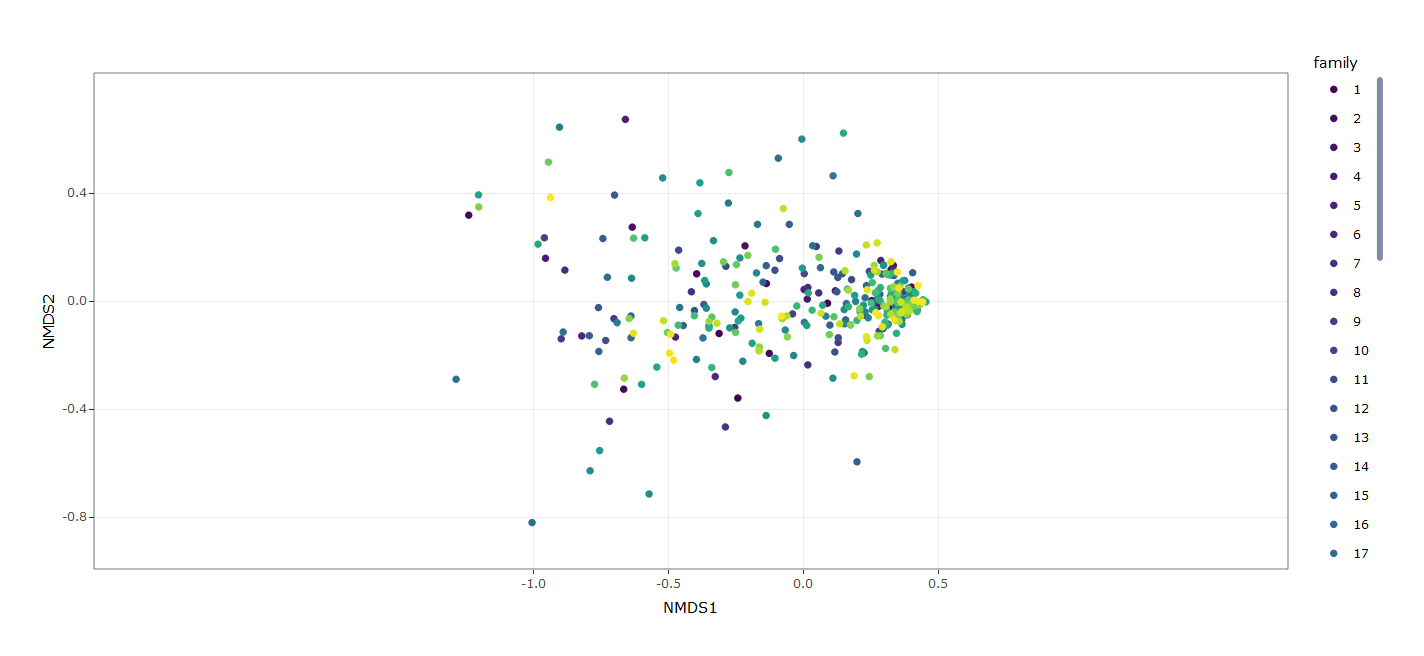
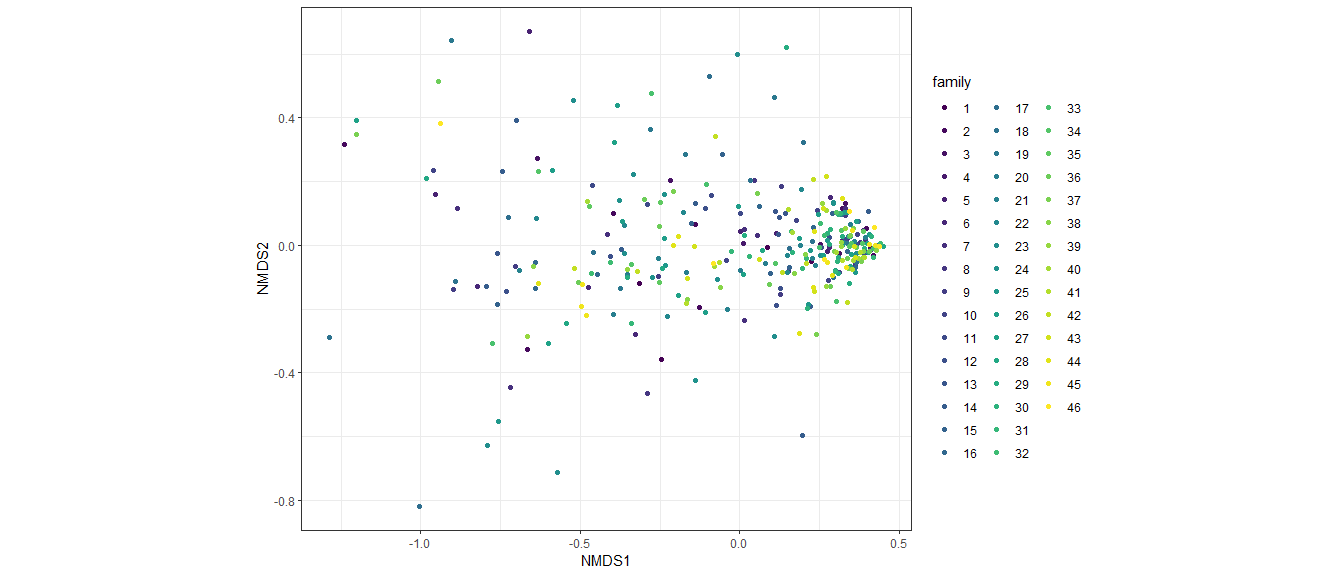
includes correlations

diff --git a/Rmds/VOC_clustering.md b/Rmds/VOC_clustering.md
@@ -5,6 +5,7 @@ Volatile organic compounds clustering/ordination
   - [Data transformation](#data-transformation)
   - [Ordination](#ordination)
   - [NMDS](#nmds)
+  - [Correlations](#correlations)
 
 The clean RDS data file should be available locally after you run the
 `master_cleanup.R` file.This will take the master csv data file and
@@ -100,32 +101,43 @@ which still doesn’t show convergence.
 
     ## Wisconsin double standardization
     ## Run 0 stress 0.1117267 
-    ## Run 1 stress 0.1288331 
-    ## Run 2 stress 0.1237552 
-    ## Run 3 stress 0.126145 
-    ## Run 4 stress 0.1208796 
-    ## Run 5 stress 0.1277006 
-    ## Run 6 stress 0.1215112 
-    ## Run 7 stress 0.120879 
-    ## Run 8 stress 0.1254304 
-    ## Run 9 stress 0.1239232 
-    ## Run 10 stress 0.1267839 
-    ## Run 11 stress 0.1246888 
-    ## Run 12 stress 0.1187022 
-    ## Run 13 stress 0.1209325 
-    ## Run 14 stress 0.1199551 
-    ## Run 15 stress 0.1197298 
-    ## Run 16 stress 0.1223307 
-    ## Run 17 stress 0.1206512 
-    ## Run 18 stress 0.1296298 
-    ## Run 19 stress 0.1251391 
-    ## Run 20 stress 0.1233134 
+    ## Run 1 stress 0.1223089 
+    ## Run 2 stress 0.4184264 
+    ## Run 3 stress 0.1205834 
+    ## Run 4 stress 0.1182784 
+    ## Run 5 stress 0.1238578 
+    ## Run 6 stress 0.123495 
+    ## Run 7 stress 0.1250602 
+    ## Run 8 stress 0.1241651 
+    ## Run 9 stress 0.1252151 
+    ## Run 10 stress 0.1229182 
+    ## Run 11 stress 0.1257116 
+    ## Run 12 stress 0.1250563 
+    ## Run 13 stress 0.1185858 
+    ## Run 14 stress 0.4185372 
+    ## Run 15 stress 0.1228607 
+    ## Run 16 stress 0.1210912 
+    ## Run 17 stress 0.124908 
+    ## Run 18 stress 0.1198849 
+    ## Run 19 stress 0.1181746 
+    ## Run 20 stress 0.1279723 
     ## *** No convergence -- monoMDS stopping criteria:
-    ##      2: no. of iterations >= maxit
-    ##     18: stress ratio > sratmax
+    ##      3: no. of iterations >= maxit
+    ##     17: stress ratio > sratmax
 
 ![](VOC_clustering_files/figure-gfm/unnamed-chunk-13-1.png)<!-- -->
 
 The hulls by sex
 
 ![](VOC_clustering_files/figure-gfm/unnamed-chunk-14-1.png)<!-- -->
+
+## Correlations
+
+For all of them
+![](VOC_clustering_files/figure-gfm/unnamed-chunk-15-1.png)<!-- -->
+
+For males
+![](VOC_clustering_files/figure-gfm/unnamed-chunk-16-1.png)<!-- -->
+
+For females
+![](VOC_clustering_files/figure-gfm/unnamed-chunk-17-1.png)<!-- -->
